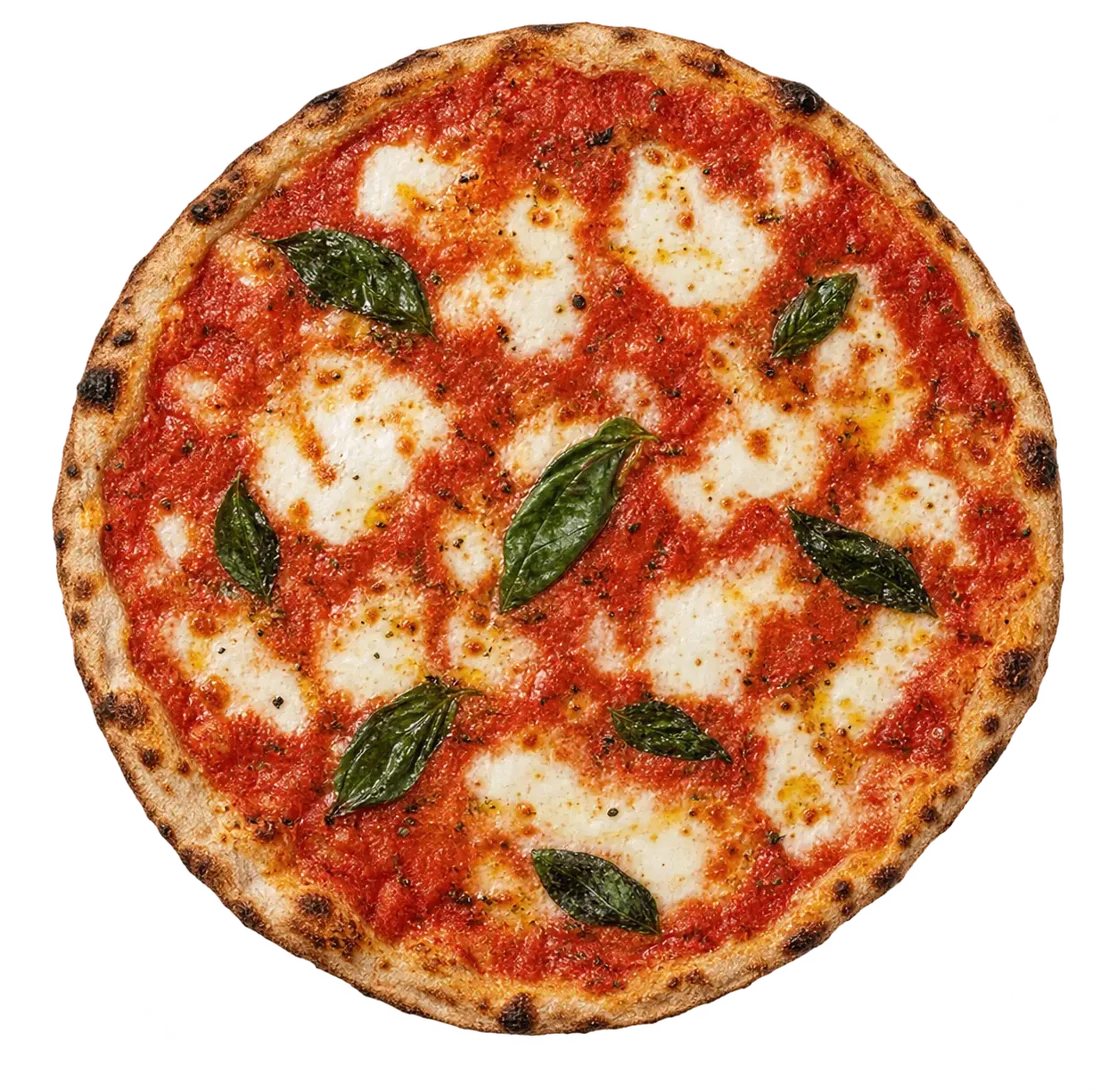
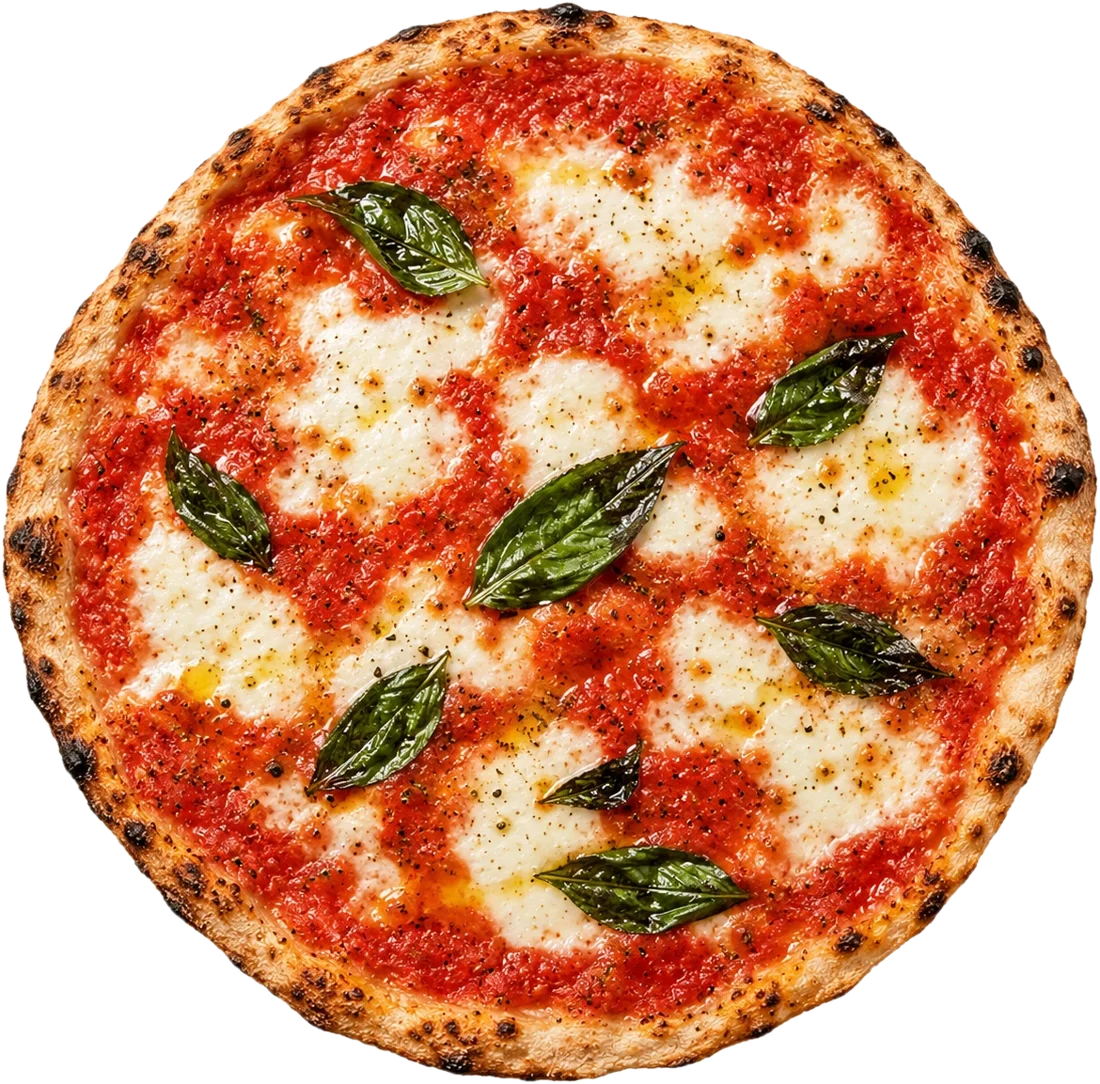
Swap hero for the new Roman pizza photo, background removed
Claude-Session: https://claude.ai/code/session_01VcrzfpeMRZyKA7p1aqPQ3C

diff --git a/index.html b/index.html
@@ -68,7 +68,7 @@
           </div>
         </div>
         <div class="hero-art" aria-hidden="true">
-          <img class="hero-pizza" src="assets/img/pizza-romana.webp" alt="" width="1100" height="1090">
+          <img class="hero-pizza" src="assets/img/pizza-romana.webp" alt="" width="1100" height="1084">
         </div>
       </div>
       <div class="checker checker--bottom" aria-hidden="true"></div>
